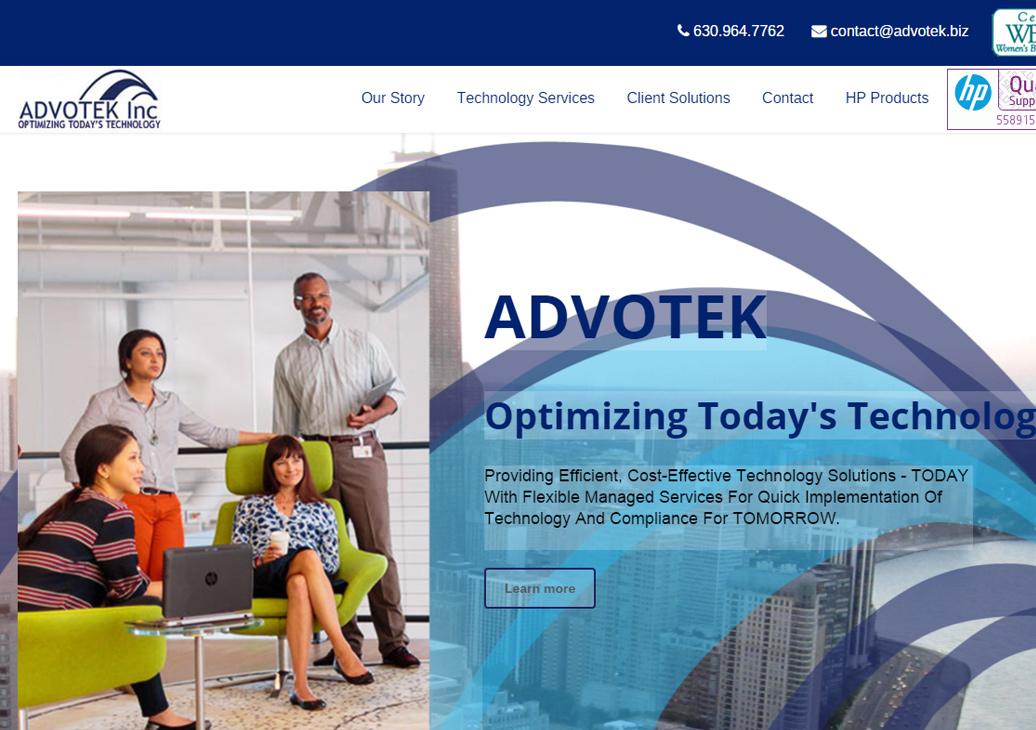
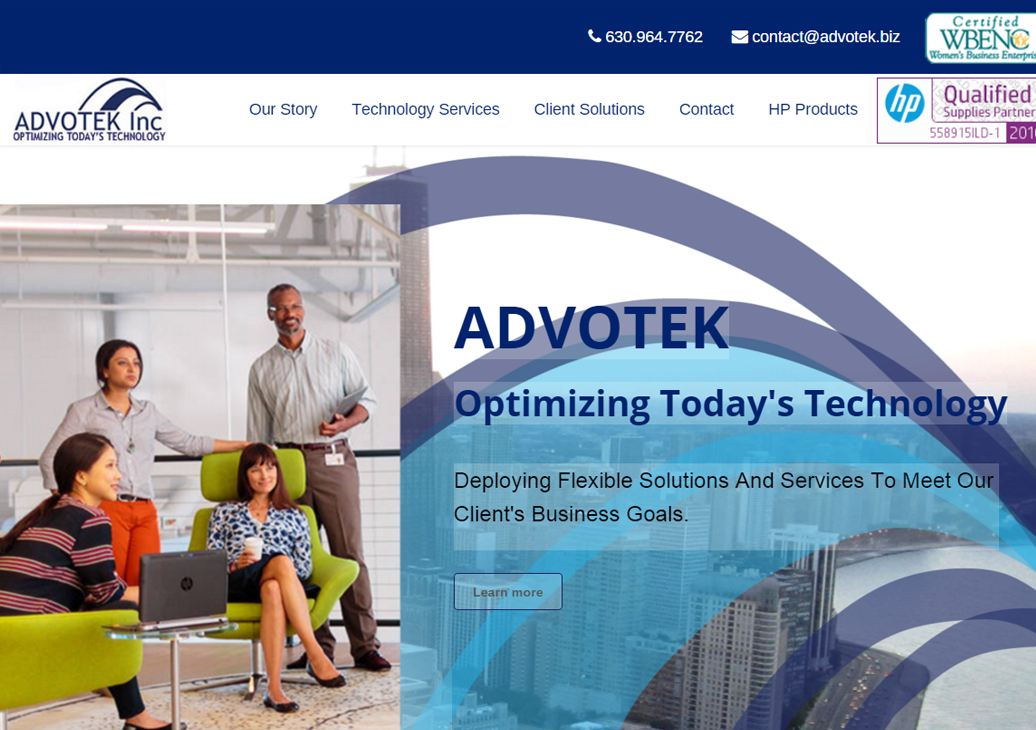
background shadow

diff --git a/Web/css/main.css b/Web/css/main.css
@@ -11,14 +11,13 @@ body{
 	/* overflow-x:hidden !important; */
 }
 .mastwrap {
-
     background-color:rgba(183, 208, 9, 0.6); 
     background-color:#dfe54a;
-   /* background-color:rgba(223, 229, 74, 0.40);green*/
+   background-color:rgba(223, 229, 74, 0.40);
 }
 .page-section {
     position: relative;
-    background: #fff;
+   /*background: #fff;*/
     overflow: hidden;
 }
 /* You could use :after - it doesn't really matter */
@@ -652,10 +651,10 @@ section {
 	margin-bottom: 60px;
 }
 .shadow {
-    box-shadow: 7px 7px 7px #aaa;
-    -moz-box-shadow: 7px 7px 7px #aaa;
-    -webkit-box-shadow: 7px 7px 7px #aaa;
-     -ms-box-shadow: 7px 7px 7px #aaa;
+    box-shadow: 7px 7px 20px rgba(0, 0, 0, 0.4);
+    -moz-box-shadow: 7px 7px 20px rgba(0, 0, 0, 0.4);
+    -webkit-box-shadow: 7px 7px 20px rgba(0, 0, 0, 0.4);
+     -ms-box-shadow: 7px 7px 20px rgba(0, 0, 0, 0.4);
 }
 .showcase-single-content h5{
 	font-weight: 500;

diff --git a/Web/Scripts/main.js b/Web/Scripts/main.js
@@ -26,7 +26,8 @@ $(function ($) {
      $('.fullwidth').css('height',vW);
      $('.fullheight').css('height',vH);
      $('.halfheight').css('height',vH/2);
-     $('.halfwidth').css('width',vW/2);
+     $('.halfwidth').css('width', vW / 2);
+     $('.halfheight').css('height', vH * .7);
      
 
     //Mobile Menu (multi level)
